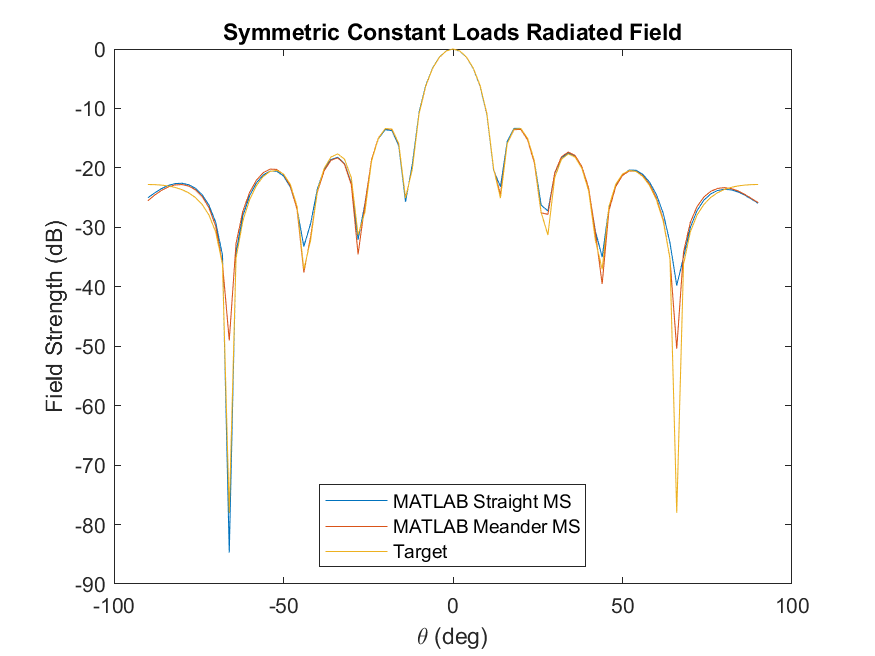
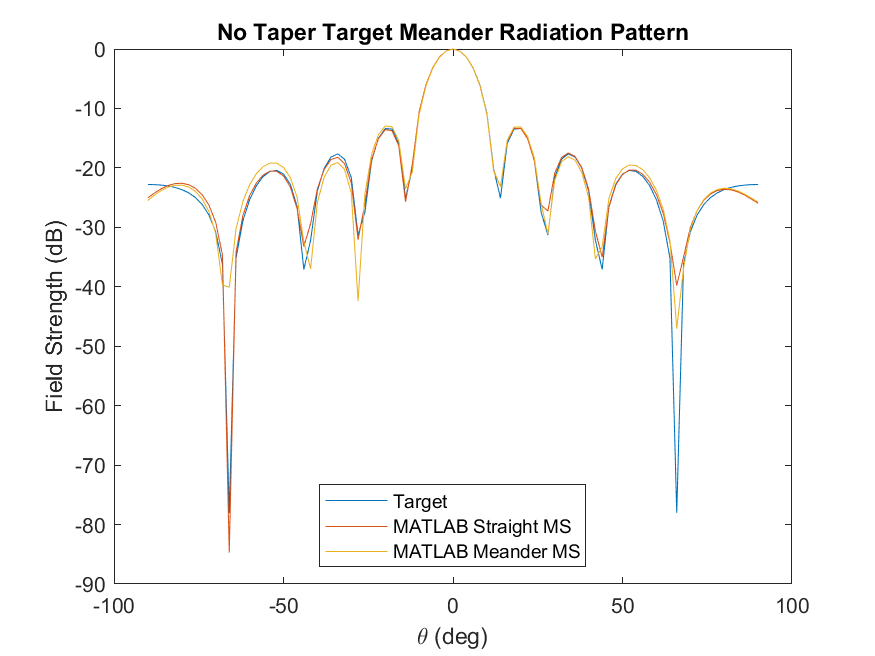
testing with small variations

diff --git a/graph_fields.m b/graph_fields.m
@@ -21,7 +21,7 @@ E_rl = zeros(1,91);
 E_targ = zeros(1,91);
 
 for n = 1:21
-    E_targ = E_targ + cos(pi*(n-11)/21)*exp(1i*(n-1)*k*d.*sind(theta));
+    E_targ = E_targ + exp(1i*(n-1)*k*d.*sind(theta));
 end
 % COSINE ELEMENT cos(pi*(n-11)/21)*
 E_targ = E_targ./max(E_targ);
@@ -31,7 +31,7 @@ I_E = 1;
 % [X_L,Z_LL,Z_LE,Z_EL,Z_EE] = loadMat("straight_ms_zmatrix/UnitCell_Meander_Array_1D_Array_Straight_ZMat_3-5mm_ms.s21p", Z_0, Z_targ, f, 10, 100, 21, 11, 0);
 
 %% OPTIMZING FOR LOAD
-x0 = 45.*ones(1,20);
+x0 = 50.*ones(1,20);
 
 [Xs_mat,Z_LL,Z_LE,Z_EL,Z_EE,I_E] = optimSymOut("straight_ms_zmatrix/UnitCell_Meander_Array_1D_Array_Straight_ZMat_3-5mm_ms.s21p",Etheta,E_targ,x0,10,100,I_E,Z_0,21,11);
 [Zm_LL,Zm_LE,Zm_EL,Zm_EE] = extractParams("meander_array_zmatrix/UnitCell_Meander_Array_1D_Array_Meander_10mm_2mm.s21p",Z_0,21,11);
@@ -43,7 +43,7 @@ Cm_mat = -1 ./ (w*Xm_mat) .* 1e12;
 % Xm_mat = zeros(1,20);
 
 %% IMPORT HFSS GRAPH
-fields_data = readtable("sym_cos/meander_2mm_cos_optim.csv");
+fields_data = readtable("sym_const/meander_2mm_sym.csv");
 fields_data_arr = table2array(fields_data);
 theta_vals = fields_data_arr(:,3);
 norm_vals = fields_data_arr(:,4);
@@ -60,11 +60,11 @@ hold on
 plot(theta,20*log10(Es_tot))
 plot(theta,20*log10(Em_tot))
 % plot(theta,20*log10(Emo_tot))
-% plot(theta_vals,20*log10(norm_vals))
+plot(theta_vals,20*log10(norm_vals))
 hold off
-title("Cosine Taper Target Meander Radiation Pattern")
+title("No Taper Target Meander Radiation Pattern")
 xlabel("\theta (deg)")
 ylabel("Field Strength (dB)")
 legend("Target","MATLAB Straight MS","MATLAB Meander MS","HFSS Sim","Location","south")
 % legend("MATLAB","HFSS","Location","south")
-saveas(gcf,"figures/sym_cos_rad_pattern_meander_ms.png")
+saveas(gcf,"figures/sym_const_rad_pattern_hfss_sim.png")

diff --git a/rad_field_test.m b/rad_field_test.m
@@ -1,0 +1,44 @@
+Z_0 = 50;
+f = 10e9;
+I_E = 1;
+w = 2*pi*f;
+
+% Extract Element Patterns
+[Emtheta,Emphi,theta,phi] = extractFields("element_patterns/2mm_meander_10mm_width/meander_10mm_2mm","Phi-Theta");
+
+% Extract Z params
+[Zm_LL,Zm_LE,Zm_EL,Zm_EE] = extractParams("meander_array_zmatrix/UnitCell_Meander_Array_1D_Array_Meander_10mm_2mm.s21p",Z_0,21,11);
+
+% Define Z matrices
+Cmat = 0.14*ones(10,10);
+Cmat = Cmat + (1.1-0.14)*eye(10);
+Cmat = flipHoriz(Cmat).*1e-12;
+Zmat = 1 ./ (1i*w.*Cmat);
+
+% Find E fields
+Etot = zeros(10,91);
+for i = 1:10
+    [Etot(i,:),~,~] = forwardSolve(Zmat(i,:),Zm_LL,Zm_LE,Zm_EL,Zm_EE,I_E,Emtheta);
+end
+
+% Import HFSS Graph
+fields_data = readtable("test/test_fields.csv");
+fields_data_arr = table2array(fields_data);
+theta_vals = fields_data_arr(:,1);
+norm_vals = zeros(91,10);
+
+for i = 1:10
+    norm_vals(:,i) = fields_data_arr(:,12-i);
+end
+
+for i = 1:10
+    plot(theta,20.*log10(abs(Etot(i,:))))
+    hold on
+    plot(theta_vals,20.*log10(norm_vals(:,i)))
+    hold off
+    title("Radiation Pattern State "+i)
+    xlabel("\theta (deg)")
+    ylabel("Field Strength (dB)")
+    legend("MATLAB","HFSS Sim")
+    saveas(gcf,"figures/test_fields/state"+i+".png")
+end

diff --git a/flipHoriz.m b/flipHoriz.m
@@ -1,0 +1,9 @@
+function result = flipHoriz(mat)
+result = zeros(size(mat,1),2*size(mat,2));
+for i = 1:size(mat,1)
+    for j = 1:size(mat,2)
+        result(i,j) = mat(i,j);
+        result(i,2*size(mat,2)+1-j) = mat(i,j);
+    end
+end
+end
